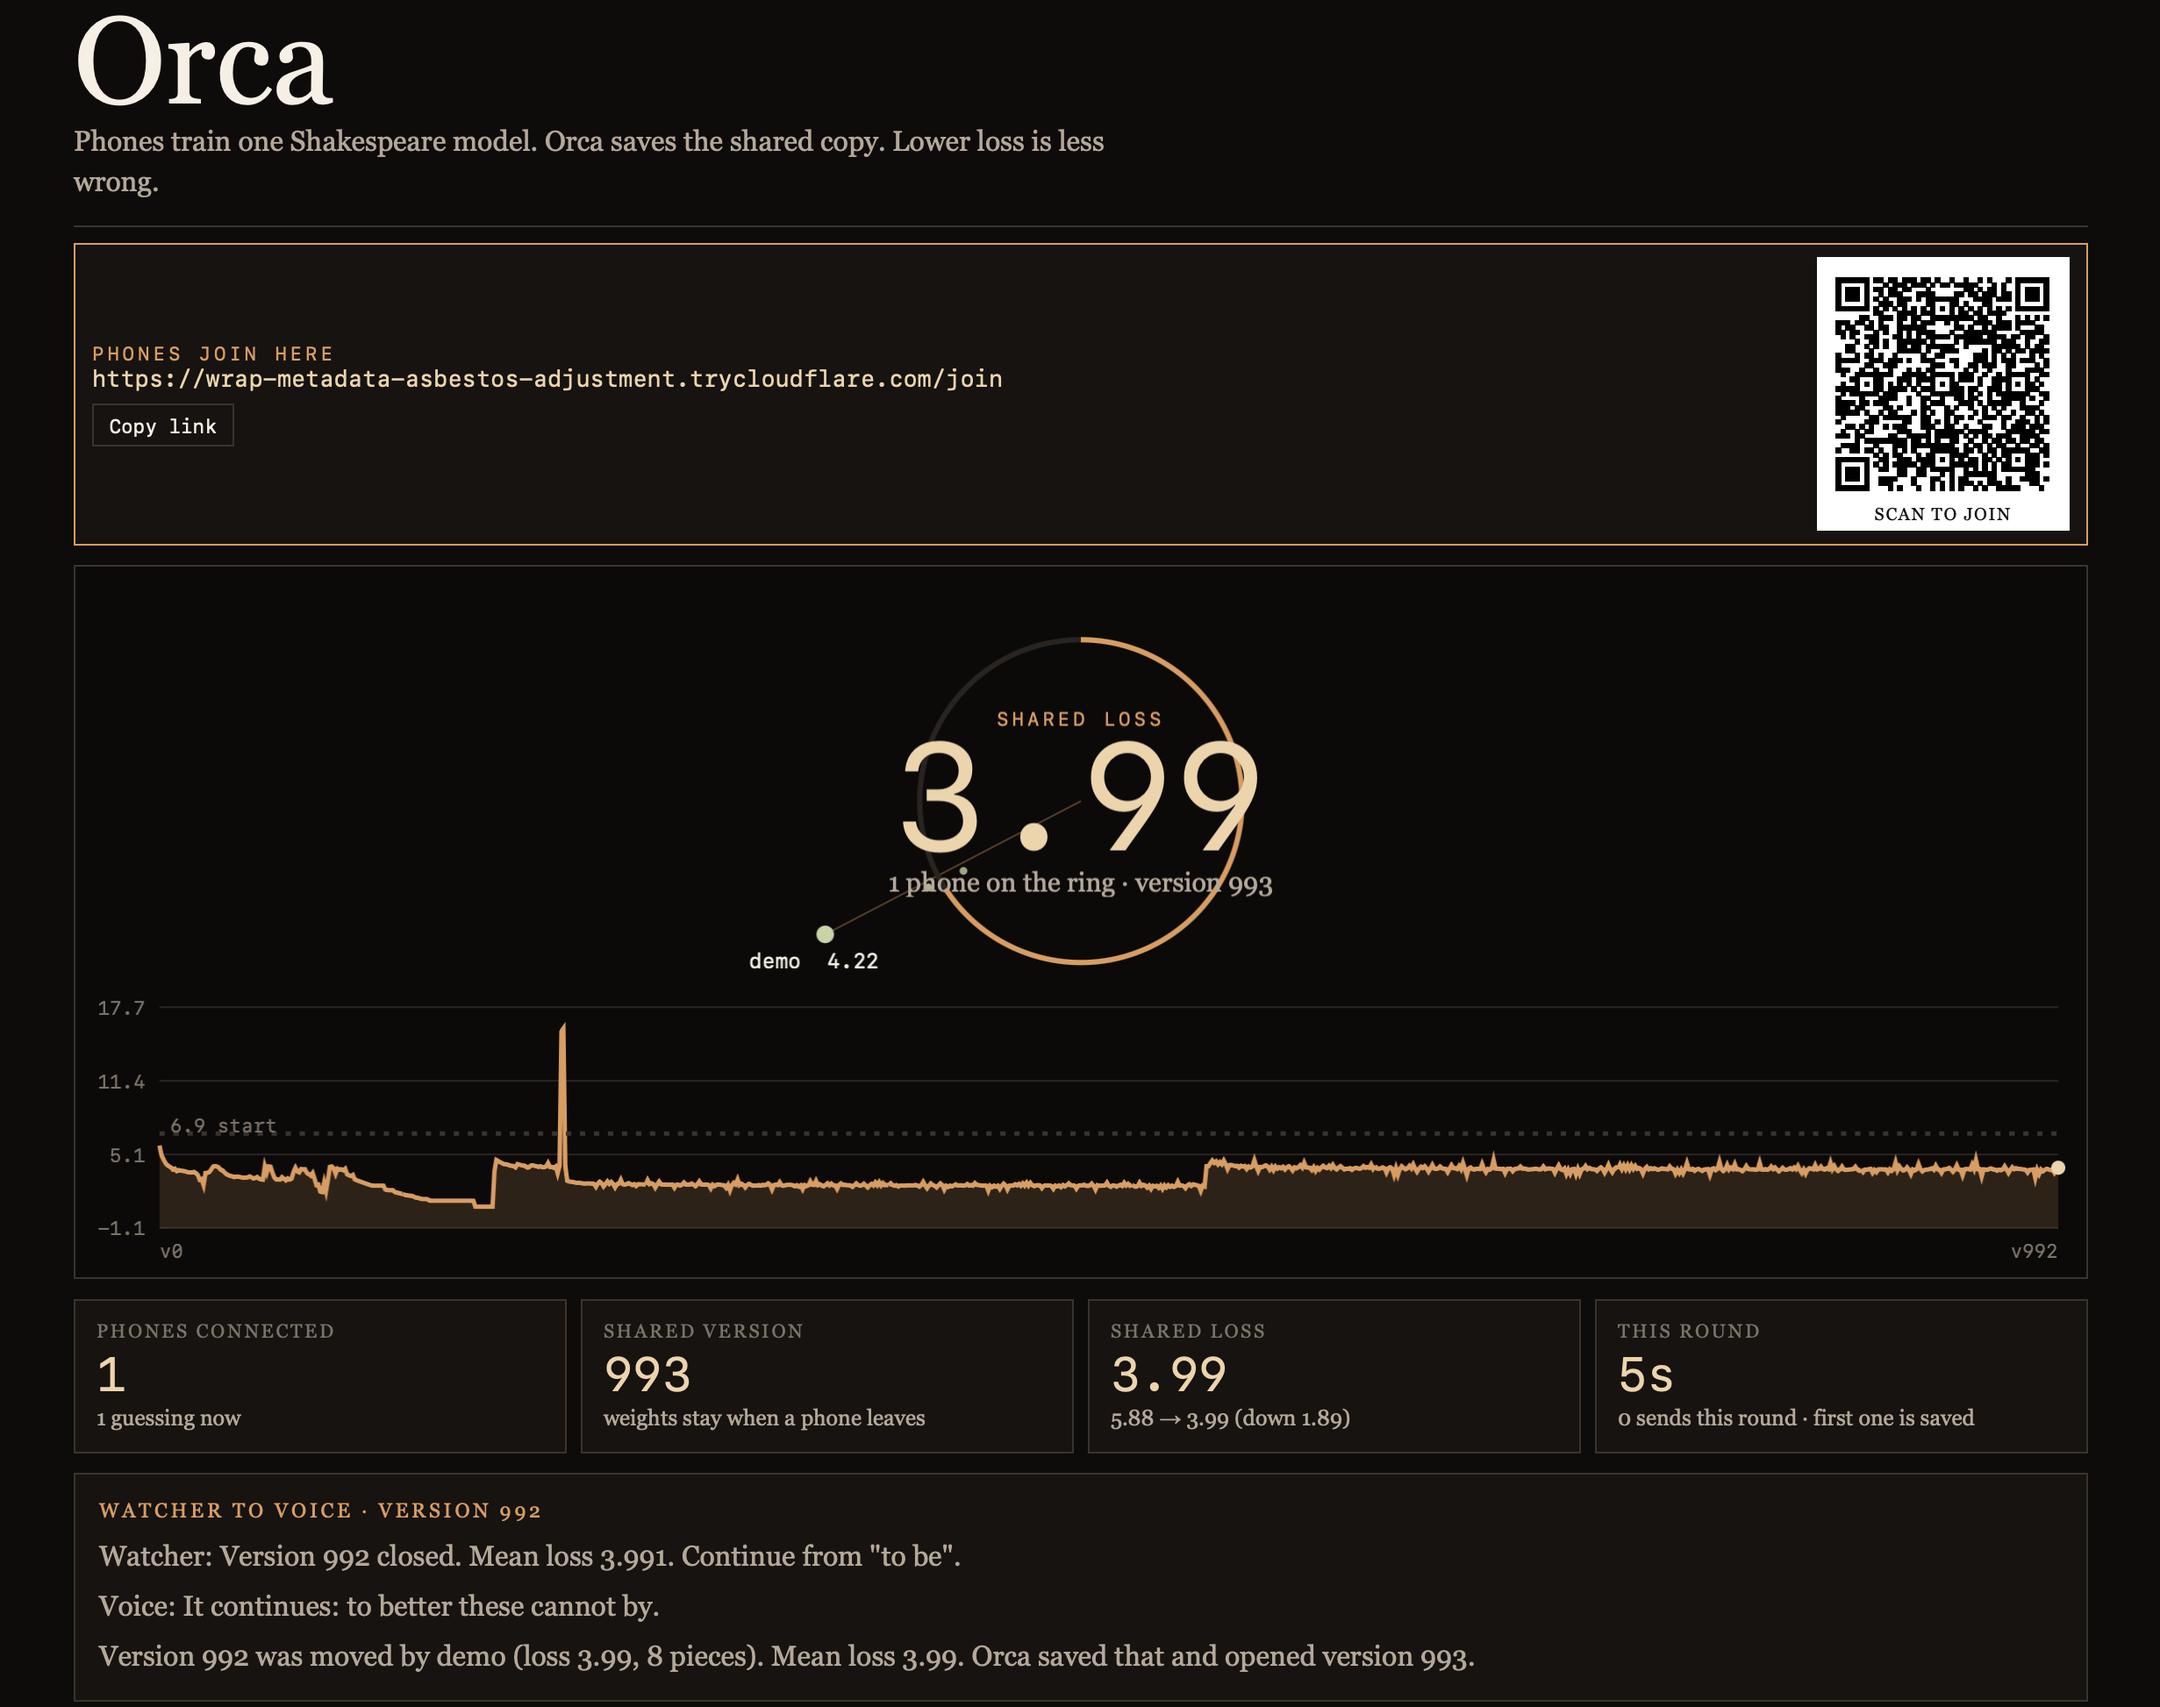
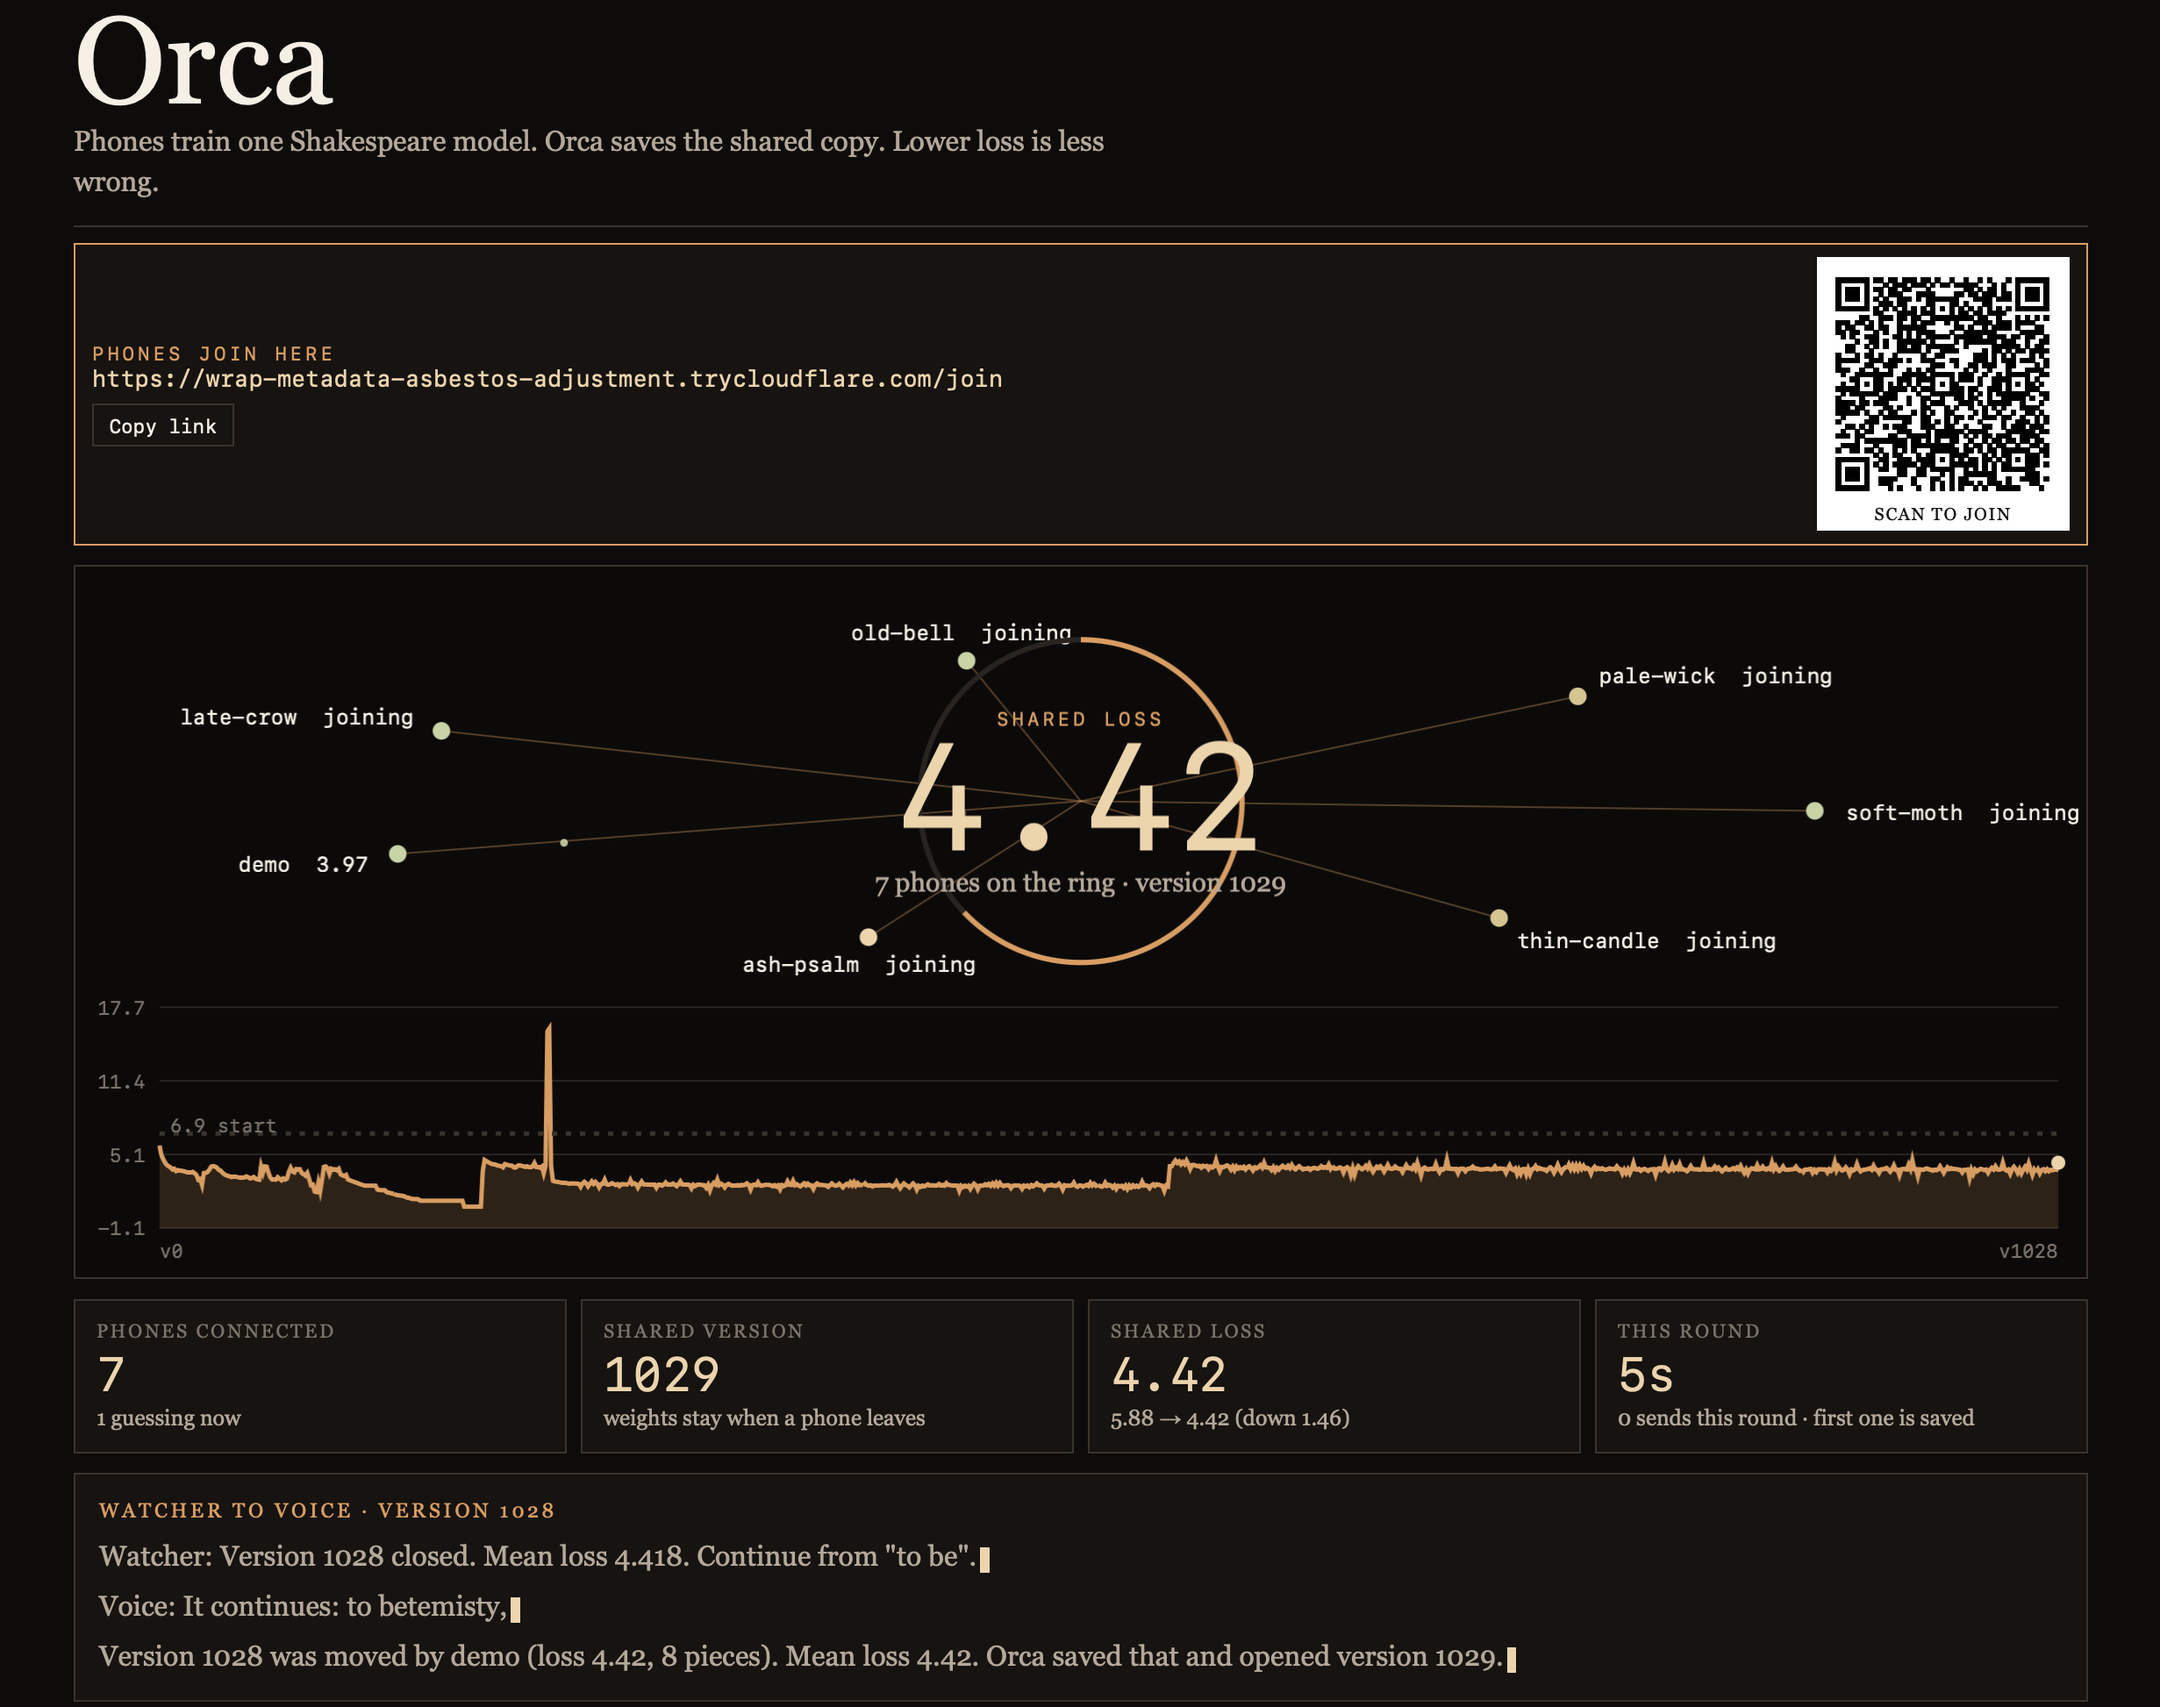
Replace the README screen with the seven-phone round.
Version 1029 is on the ring, the shared loss is 4.42, and the Voice line is "to betemisty".

diff --git a/README.md b/README.md
@@ -6,7 +6,7 @@ Marthala Sai Kavya · Haunted Hacks
 
 This is the screen. Phones join with the QR. The ring is the shared loss. The chart is every version so far. Under that, the Watcher tells the Voice the loss, and the Voice answers.
 
-![Orca, the shared screen. Version 993, loss 3.99, one phone guessing. The Voice continues: to better these cannot by.](docs/orca.png)
+![Orca, the shared screen. Seven phones on the ring, version 1029, loss 4.42. The Voice continues: to betemisty.](docs/orca.png)
 
 The two-slide intro is at `/intro`.
 
@@ -121,11 +121,11 @@ The conversation is one Agent Relay flow, `seance/relay/flows/round-closed.flow.
 On the screen above, that exchange is already filled in:
 
 ```text
-Watcher    Version 992 closed. Mean loss 3.991. Continue from "to be".
-Voice      It continues: to better these cannot by.
+Watcher    Version 1028 closed. Mean loss 4.418. Continue from "to be".
+Voice      It continues: to betemisty,
 ```
 
-Version 992 was moved by the phone on the ring. Orca saved that and opened version 993. Loss started near 6.9 and is now 3.99.
+Seven phones are on the ring. Version 1028 was moved by the phone that is guessing. Orca saved that and opened version 1029. Loss started near 5.88 and is now 4.42.
 
 ## What you see
 
